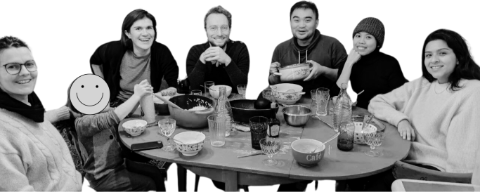
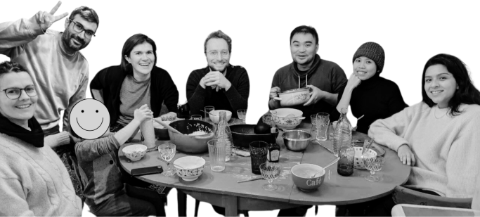
mediastart in footer, eating now includes me

diff --git a/scss/style.scss b/scss/style.scss
@@ -47,9 +47,15 @@ header {
 }
 
 .logo-wraper{
-    max-width: calc(1024px - 50px);
     margin: 0px auto;
-    display: flex;
+    max-width: calc(1024px - 50px);
+    a{
+        display: flex;
+        text-decoration: none;
+        color: $bg-color;
+        width: 600px;
+    }
+
     img {
         margin: 0 10px;
         width: 48px;
@@ -60,6 +66,9 @@ header {
         margin: auto 10px;
         font-size: 35px;
         font-weight:normal;
+    }
+    h1:hover{
+        color: $footer;
     }
 }
 
@@ -172,4 +181,51 @@ footer {
     strong{
         color: $bg-color;
     }
+
+    .footer-wrapper{
+        width: 600px;
+        margin: 0 auto;
+        display:flex;
+
+        a{
+            color: $bg-color;
+            text-decoration: none;
+        }
+        a:hover{
+            color: $bold-text;
+            text-decoration: underline;
+        }
+
+        .yaga-details{
+            margin: 15px 0 0 0;
+            width: 398px;
+        }
+        
+        .splitter{
+            width: 2px;
+            height: 40px;
+            margin: 15px 0 0 0;
+            background-color: $bg-color;
+        }
+
+        .endorsed-by{
+            width: 200px;
+            margin: 0;
+
+            p{
+                font-size: 10px;
+                width: 200px;
+                text-align: left;
+                margin: 0 0 0 20px;
+            }
+
+            img{
+                float: left;
+                width: 70px;
+                text-align: left;
+                margin: 0 0 0 20px;
+            }
+        }
+    }
 }
+

diff --git a/index.html b/index.html
@@ -14,8 +14,10 @@
 <body>
     <header>
         <div class="logo-wraper">
-            <img src="svg/yaga-white.svg" alt="Yaga Logo">
-            <h1>Yaga Studio</h1>
+            <a href="https://yagastudio.com">
+                <img src="svg/yaga-white.svg" alt="Yaga Logo">
+                <h1>Yaga Studio</h1>
+            </a>
         </div>
     </header>
     <main>
@@ -72,7 +74,18 @@
         
     </main>
     <footer>
-        <p><strong>Yaga Studio GmbH</strong><br/>📌 Plautstraße 27-29, 04179 Leipzig, Germany</p>
+        <div class="footer-wrapper">
+            <div class="yaga-details">
+                <a href="https://yagastudio.com">Yaga Studio GmbH</a><br/>
+                <a href="https://maps.app.goo.gl/4KPbTSWQSUxA5wgu6">📌 Plautstraße 27-29, 04179 Leipzig, Germany</a>
+            </div>
+            <div class="splitter"></div>
+            <div class="endorsed-by">
+                <p><a href="https://www.mdm-online.de/index.php?id=327">Endorsed by</a></p>
+                <a href="https://www.mdm-online.de/index.php?id=327"><img src="img/media-start-logo.png" /></a>
+            </div>
+            
+        </div>
     </footer>
     <script>
         $(document).ready(function(){
@@ -103,8 +116,6 @@
                 $(this).find('img').fadeIn(200);
                 $(this).find('.normal').fadeIn(200);
             });
-
-
         });
     </script>
 

diff --git a/scss/style.css b/scss/style.css
@@ -44,9 +44,14 @@ header h1 {
 }
 
 .logo-wraper {
-  max-width: 974px;
   margin: 0px auto;
+  max-width: 974px;
+}
+.logo-wraper a {
   display: flex;
+  text-decoration: none;
+  color: #fff;
+  width: 600px;
 }
 .logo-wraper img {
   margin: 0 10px;
@@ -58,6 +63,9 @@ header h1 {
   margin: auto 10px;
   font-size: 35px;
   font-weight: normal;
+}
+.logo-wraper h1:hover {
+  color: #FF9130;
 }
 
 main {
@@ -162,4 +170,43 @@ footer {
 }
 footer strong {
   color: #fff;
+}
+footer .footer-wrapper {
+  width: 600px;
+  margin: 0 auto;
+  display: flex;
+}
+footer .footer-wrapper a {
+  color: #fff;
+  text-decoration: none;
+}
+footer .footer-wrapper a:hover {
+  color: #3559E0;
+  text-decoration: underline;
+}
+footer .footer-wrapper .yaga-details {
+  margin: 15px 0 0 0;
+  width: 398px;
+}
+footer .footer-wrapper .splitter {
+  width: 2px;
+  height: 40px;
+  margin: 15px 0 0 0;
+  background-color: #fff;
+}
+footer .footer-wrapper .endorsed-by {
+  width: 200px;
+  margin: 0;
+}
+footer .footer-wrapper .endorsed-by p {
+  font-size: 10px;
+  width: 200px;
+  text-align: left;
+  margin: 0 0 0 20px;
+}
+footer .footer-wrapper .endorsed-by img {
+  float: left;
+  width: 70px;
+  text-align: left;
+  margin: 0 0 0 20px;
 }/*# sourceMappingURL=style.css.map */
